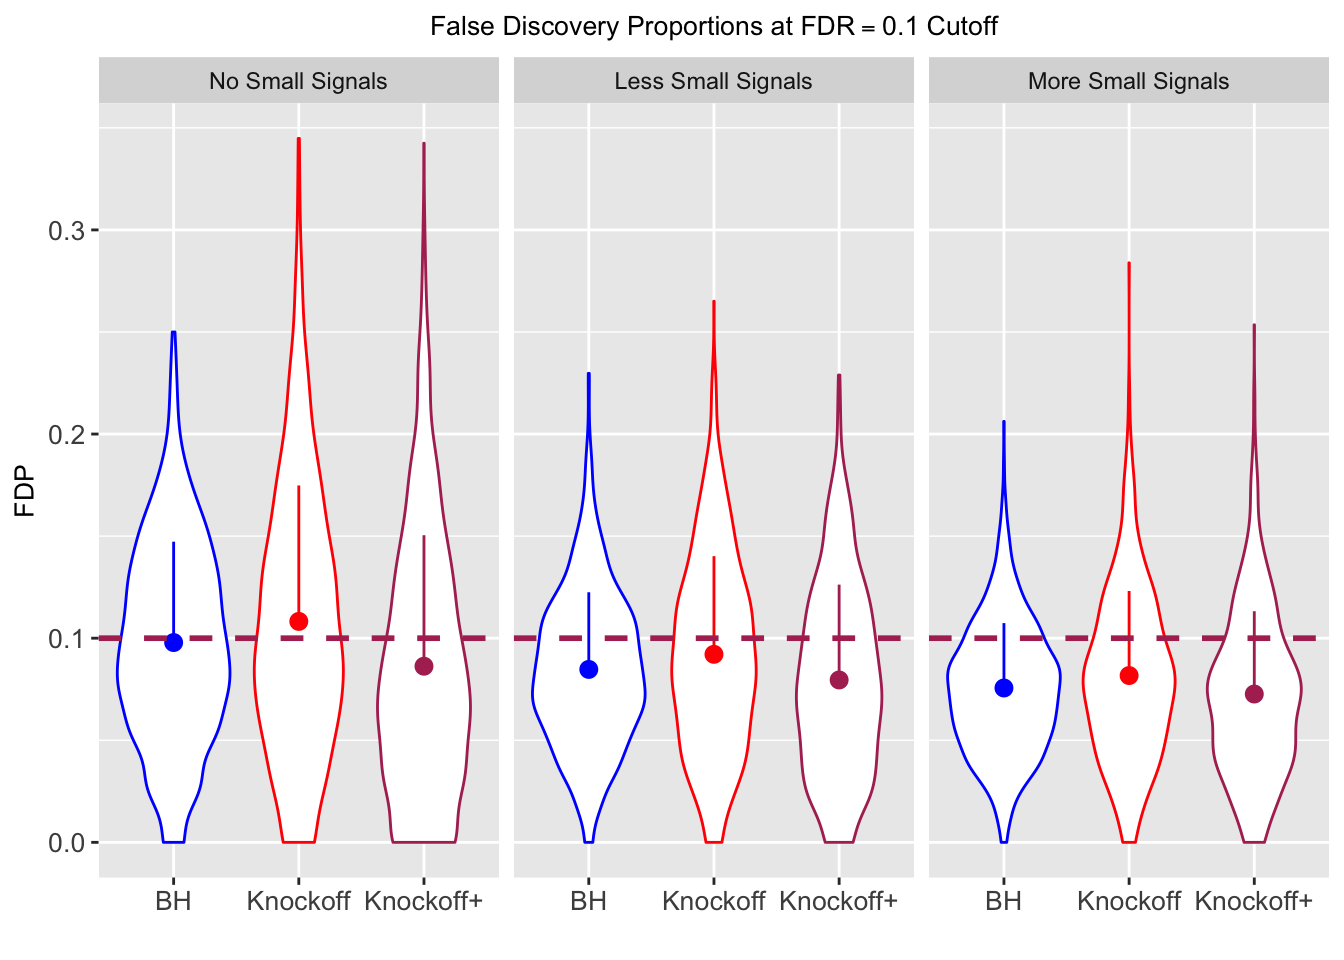
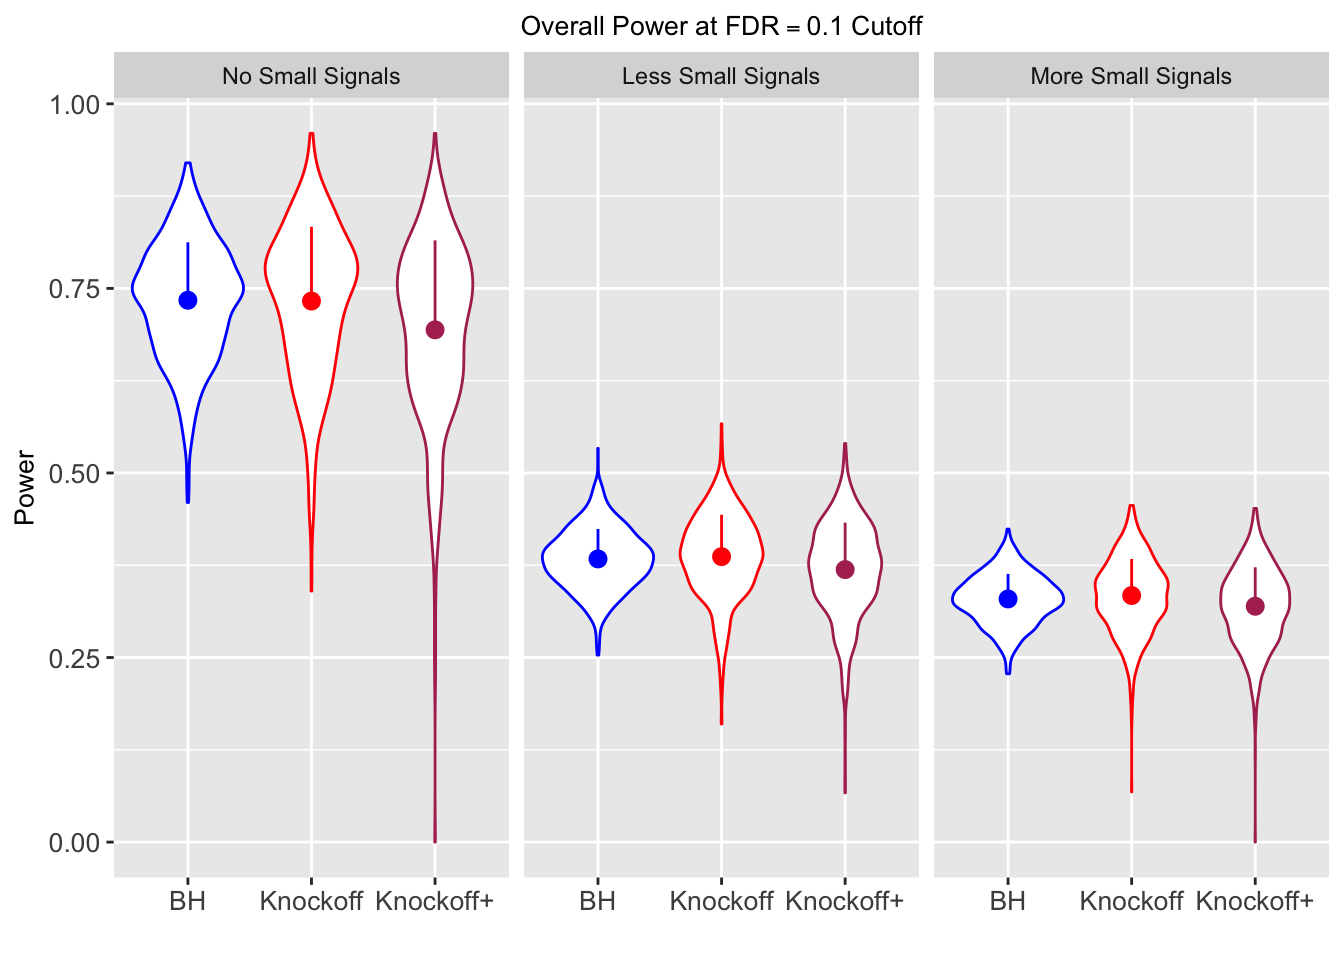
Build site.

diff --git a/docs/knockoff_6.html b/docs/knockoff_6.html
@@ -315,15 +315,15 @@ div.tocify {
 shared across the workflowr files. -->
 <!-- Update knitr chunk options -->
 <!-- Insert the date the file was last updated -->
-<p><strong>Last updated:</strong> 2018-02-14</p>
+<p><strong>Last updated:</strong> 2018-02-15</p>
 <!-- Insert the code version (Git commit SHA1) if Git repository exists and R
  package git2r is installed -->
-<p><strong>Code version:</strong> c9c60cc</p>
+<p><strong>Code version:</strong> c586cb3</p>
 <!-- Add your analysis here -->
 <section id="introduction" class="level2">
 <h2>Introduction</h2>
 <p>In the <code>Knockoff</code> paper simulations, <span class="math inline">\(\beta\)</span>’s are either <span class="math inline">\(0\)</span> or <span class="math inline">\(A\)</span>. Here we are replicating the results, and investigating how well <code>Knockoff</code> deal with small signals.</p>
-<p>In the following simulations, we always have <span class="math inline">\(n = 3000\)</span>, <span class="math inline">\(p = 1000\)</span>, <span class="math inline">\(X_{n \times p}\)</span> has independent columns simulated from <span class="math inline">\(N(0, 1)\)</span> and then normalized to have <span class="math inline">\(\|X_j\|_2^2 \equiv 1\)</span>. For a certain <span class="math inline">\(\beta\)</span>, <span class="math inline">\(Y_n \sim N(X_{n\times p}\beta_p, I_n)\)</span>. Out of <span class="math inline">\(p = 1000\)</span> <span class="math inline">\(\beta_j\)</span>’s, here are three scenarios.</p>
+<p>In the following simulations, we always have <span class="math inline">\(n = 3000\)</span>, <span class="math inline">\(p = 1000\)</span>, For a certain <span class="math inline">\(\beta\)</span>, <span class="math inline">\(Y_n \sim N(X_{n\times p}\beta_p, I_n)\)</span>. Out of <span class="math inline">\(p = 1000\)</span> <span class="math inline">\(\beta_j\)</span>’s, here are three scenarios.</p>
 <ul>
 <li>Scenario 1: <span class="math inline">\(950\)</span> are 0, and the rest <span class="math inline">\(50\)</span> are <span class="math inline">\(A = 3.5\)</span>. (replicating a data point on Fig 3 of the <code>Knockoff</code> paper)</li>
 <li>Scenario 2: <span class="math inline">\(850\)</span> are 0, <span class="math inline">\(50\)</span> are <span class="math inline">\(A = 3.5\)</span> as large signals, and the rest <span class="math inline">\(100\)</span> are small signals uniformly from <span class="math inline">\(0\)</span> to <span class="math inline">\(3.5\)</span>.</li>
@@ -357,6 +357,11 @@ X &lt;- svd(X)$u
 Xk &lt;- knockoff::create.fixed(X)
 Xk &lt;- Xk$Xk</code></pre>
 <p><img src="figure/knockoff_6.rmd/unnamed-chunk-15-1.png" width="672" style="display: block; margin: auto;" /></p>
+</section>
+</section>
+<section id="orthogonal-design" class="level2">
+<h2>Orthogonal design</h2>
+<p><span class="math inline">\(X\)</span> has random orthonormal columns</p>
 <table>
 <thead>
 <tr class="header">
@@ -419,11 +424,179 @@ Xk &lt;- Xk$Xk</code></pre>
 </tr>
 </tbody>
 </table>
+<p><img src="figure/knockoff_6.rmd/unnamed-chunk-19-1.png" width="672" style="display: block; margin: auto;" /></p>
 <p><img src="figure/knockoff_6.rmd/unnamed-chunk-20-1.png" width="672" style="display: block; margin: auto;" /></p>
 <p><img src="figure/knockoff_6.rmd/unnamed-chunk-21-1.png" width="672" style="display: block; margin: auto;" /></p>
 <p><img src="figure/knockoff_6.rmd/unnamed-chunk-22-1.png" width="672" style="display: block; margin: auto;" /></p>
-<p><img src="figure/knockoff_6.rmd/unnamed-chunk-23-1.png" width="672" style="display: block; margin: auto;" /></p>
 </section>
+<section id="independent-design" class="level2">
+<h2>Independent design</h2>
+<p><span class="math inline">\(X_{n \times p}\)</span> has independent columns simulated from <span class="math inline">\(N(0, 1)\)</span> and then normalized to have <span class="math inline">\(\|X_j\|_2^2 \equiv 1\)</span>.</p>
+<pre class="r"><code>X &lt;- matrix(rnorm(n * p), n , p)
+X &lt;- t(t(X) / sqrt(colSums(X^2)))
+Xk &lt;- knockoff::create.fixed(X)
+Xk &lt;- Xk$Xk</code></pre>
+<pre class="r"><code>X &lt;- matrix(rnorm(n * p), n , p)
+X &lt;- t(t(X) / sqrt(colSums(X^2)))
+Xk &lt;- knockoff::create.fixed(X)
+Xk &lt;- Xk$Xk</code></pre>
+<pre class="r"><code>X &lt;- matrix(rnorm(n * p), n , p)
+X &lt;- t(t(X) / sqrt(colSums(X^2)))
+Xk &lt;- knockoff::create.fixed(X)
+Xk &lt;- Xk$Xk</code></pre>
+<table>
+<thead>
+<tr class="header">
+<th style="text-align: right;">FDP.BH</th>
+<th style="text-align: right;">FDP.Knockoff</th>
+<th style="text-align: right;">FDP.Knockoff.Plus</th>
+<th style="text-align: right;">Power.BH</th>
+<th style="text-align: right;">Power.Knockoff</th>
+<th style="text-align: right;">Power.Knockoff.Plus</th>
+<th style="text-align: right;">Power.Large.BH</th>
+<th style="text-align: right;">Power.Large.Knockoff</th>
+<th style="text-align: right;">Power.Large.Knockoff.Plus</th>
+<th style="text-align: right;">Power.Small.BH</th>
+<th style="text-align: right;">Power.Small.Knockoff</th>
+<th style="text-align: right;">Power.Small.Knockoff.Plus</th>
+</tr>
+</thead>
+<tbody>
+<tr class="odd">
+<td style="text-align: right;">0.0950</td>
+<td style="text-align: right;">0.0713</td>
+<td style="text-align: right;">0.0483</td>
+<td style="text-align: right;">0.4344</td>
+<td style="text-align: right;">0.5399</td>
+<td style="text-align: right;">0.4135</td>
+<td style="text-align: right;">0.4344</td>
+<td style="text-align: right;">0.5399</td>
+<td style="text-align: right;">0.4135</td>
+<td style="text-align: right;">NA</td>
+<td style="text-align: right;">NA</td>
+<td style="text-align: right;">NA</td>
+</tr>
+<tr class="even">
+<td style="text-align: right;">0.0828</td>
+<td style="text-align: right;">0.0587</td>
+<td style="text-align: right;">0.0397</td>
+<td style="text-align: right;">0.2180</td>
+<td style="text-align: right;">0.2106</td>
+<td style="text-align: right;">0.1584</td>
+<td style="text-align: right;">0.4789</td>
+<td style="text-align: right;">0.4820</td>
+<td style="text-align: right;">0.3699</td>
+<td style="text-align: right;">0.0876</td>
+<td style="text-align: right;">0.0749</td>
+<td style="text-align: right;">0.0527</td>
+</tr>
+<tr class="odd">
+<td style="text-align: right;">0.0747</td>
+<td style="text-align: right;">0.0456</td>
+<td style="text-align: right;">0.0325</td>
+<td style="text-align: right;">0.1838</td>
+<td style="text-align: right;">0.1613</td>
+<td style="text-align: right;">0.1243</td>
+<td style="text-align: right;">0.5135</td>
+<td style="text-align: right;">0.4372</td>
+<td style="text-align: right;">0.3432</td>
+<td style="text-align: right;">0.1013</td>
+<td style="text-align: right;">0.0923</td>
+<td style="text-align: right;">0.0696</td>
+</tr>
+</tbody>
+</table>
+<p><img src="figure/knockoff_6.rmd/unnamed-chunk-36-1.png" width="672" style="display: block; margin: auto;" /></p>
+<p><img src="figure/knockoff_6.rmd/unnamed-chunk-37-1.png" width="672" style="display: block; margin: auto;" /></p>
+<p><img src="figure/knockoff_6.rmd/unnamed-chunk-38-1.png" width="672" style="display: block; margin: auto;" /></p>
+<p><img src="figure/knockoff_6.rmd/unnamed-chunk-39-1.png" width="672" style="display: block; margin: auto;" /></p>
+</section>
+<section id="local-correlation-design" class="level2">
+<h2>Local correlation design</h2>
+<p><span class="math inline">\(X_{n \times p}\)</span> has correlation <span class="math inline">\(\Sigma_{ij} = \rho^{|i - j|}\)</span>. Each row is independently <span class="math inline">\(N(0, \Sigma)\)</span> and then normalized to have <span class="math inline">\(\|X_j\|_2^2 \equiv 1\)</span>.</p>
+<pre class="r"><code>rho &lt;- 0.25
+Sigma &lt;- toeplitz(rho^(0 : (p - 1)))
+X &lt;- matrix(rnorm(n * p), n , p)
+X &lt;- t(t(X) / sqrt(colSums(X^2)))
+X &lt;- X %*% chol(Sigma)
+Xk &lt;- knockoff::create.fixed(X)
+Xk &lt;- Xk$Xk</code></pre>
+<pre class="r"><code>X &lt;- matrix(rnorm(n * p), n , p)
+X &lt;- t(t(X) / sqrt(colSums(X^2)))
+X &lt;- X %*% chol(Sigma)
+Xk &lt;- knockoff::create.fixed(X)
+Xk &lt;- Xk$Xk</code></pre>
+<pre class="r"><code>X &lt;- matrix(rnorm(n * p), n , p)
+X &lt;- t(t(X) / sqrt(colSums(X^2)))
+X &lt;- X %*% chol(Sigma)
+Xk &lt;- knockoff::create.fixed(X)
+Xk &lt;- Xk$Xk</code></pre>
+<table>
+<thead>
+<tr class="header">
+<th style="text-align: right;">FDP.BH</th>
+<th style="text-align: right;">FDP.Knockoff</th>
+<th style="text-align: right;">FDP.Knockoff.Plus</th>
+<th style="text-align: right;">Power.BH</th>
+<th style="text-align: right;">Power.Knockoff</th>
+<th style="text-align: right;">Power.Knockoff.Plus</th>
+<th style="text-align: right;">Power.Large.BH</th>
+<th style="text-align: right;">Power.Large.Knockoff</th>
+<th style="text-align: right;">Power.Large.Knockoff.Plus</th>
+<th style="text-align: right;">Power.Small.BH</th>
+<th style="text-align: right;">Power.Small.Knockoff</th>
+<th style="text-align: right;">Power.Small.Knockoff.Plus</th>
+</tr>
+</thead>
+<tbody>
+<tr class="odd">
+<td style="text-align: right;">0.0957</td>
+<td style="text-align: right;">0.0563</td>
+<td style="text-align: right;">0.0344</td>
+<td style="text-align: right;">0.3367</td>
+<td style="text-align: right;">0.4985</td>
+<td style="text-align: right;">0.3484</td>
+<td style="text-align: right;">0.3367</td>
+<td style="text-align: right;">0.4985</td>
+<td style="text-align: right;">0.3484</td>
+<td style="text-align: right;">NA</td>
+<td style="text-align: right;">NA</td>
+<td style="text-align: right;">NA</td>
+</tr>
+<tr class="even">
+<td style="text-align: right;">0.0824</td>
+<td style="text-align: right;">0.0407</td>
+<td style="text-align: right;">0.0249</td>
+<td style="text-align: right;">0.1710</td>
+<td style="text-align: right;">0.1656</td>
+<td style="text-align: right;">0.1070</td>
+<td style="text-align: right;">0.3820</td>
+<td style="text-align: right;">0.3620</td>
+<td style="text-align: right;">0.2348</td>
+<td style="text-align: right;">0.0655</td>
+<td style="text-align: right;">0.0673</td>
+<td style="text-align: right;">0.0431</td>
+</tr>
+<tr class="odd">
+<td style="text-align: right;">0.0738</td>
+<td style="text-align: right;">0.0258</td>
+<td style="text-align: right;">0.0170</td>
+<td style="text-align: right;">0.1441</td>
+<td style="text-align: right;">0.1393</td>
+<td style="text-align: right;">0.0988</td>
+<td style="text-align: right;">0.4137</td>
+<td style="text-align: right;">0.4040</td>
+<td style="text-align: right;">0.2893</td>
+<td style="text-align: right;">0.0767</td>
+<td style="text-align: right;">0.0731</td>
+<td style="text-align: right;">0.0511</td>
+</tr>
+</tbody>
+</table>
+<p><img src="figure/knockoff_6.rmd/unnamed-chunk-53-1.png" width="672" style="display: block; margin: auto;" /></p>
+<p><img src="figure/knockoff_6.rmd/unnamed-chunk-54-1.png" width="672" style="display: block; margin: auto;" /></p>
+<p><img src="figure/knockoff_6.rmd/unnamed-chunk-55-1.png" width="672" style="display: block; margin: auto;" /></p>
+<p><img src="figure/knockoff_6.rmd/unnamed-chunk-56-1.png" width="672" style="display: block; margin: auto;" /></p>
 </section>
 <section id="session-information" class="level2">
 <h2>Session information</h2>
@@ -444,11 +617,11 @@ attached base packages:
 [1] stats     graphics  grDevices utils     datasets  methods   base     
 
 other attached packages:
-[1] ggplot2_2.2.1 knitr_1.19   
+[1] knitr_1.19     ggplot2_2.2.1  knockoff_0.3.0
 
 loaded via a namespace (and not attached):
  [1] Rcpp_0.12.14     magrittr_1.5     munsell_0.4.3    colorspace_1.3-2
- [5] rlang_0.1.6      stringr_1.2.0    highr_0.6        plyr_1.8.4      
+ [5] rlang_0.1.6      highr_0.6        stringr_1.2.0    plyr_1.8.4      
  [9] tools_3.4.3      grid_3.4.3       gtable_0.2.0     git2r_0.21.0    
 [13] htmltools_0.3.6  yaml_2.1.16      lazyeval_0.2.1   rprojroot_1.3-2 
 [17] digest_0.6.14    tibble_1.4.1     evaluate_0.10.1  rmarkdown_1.8   
